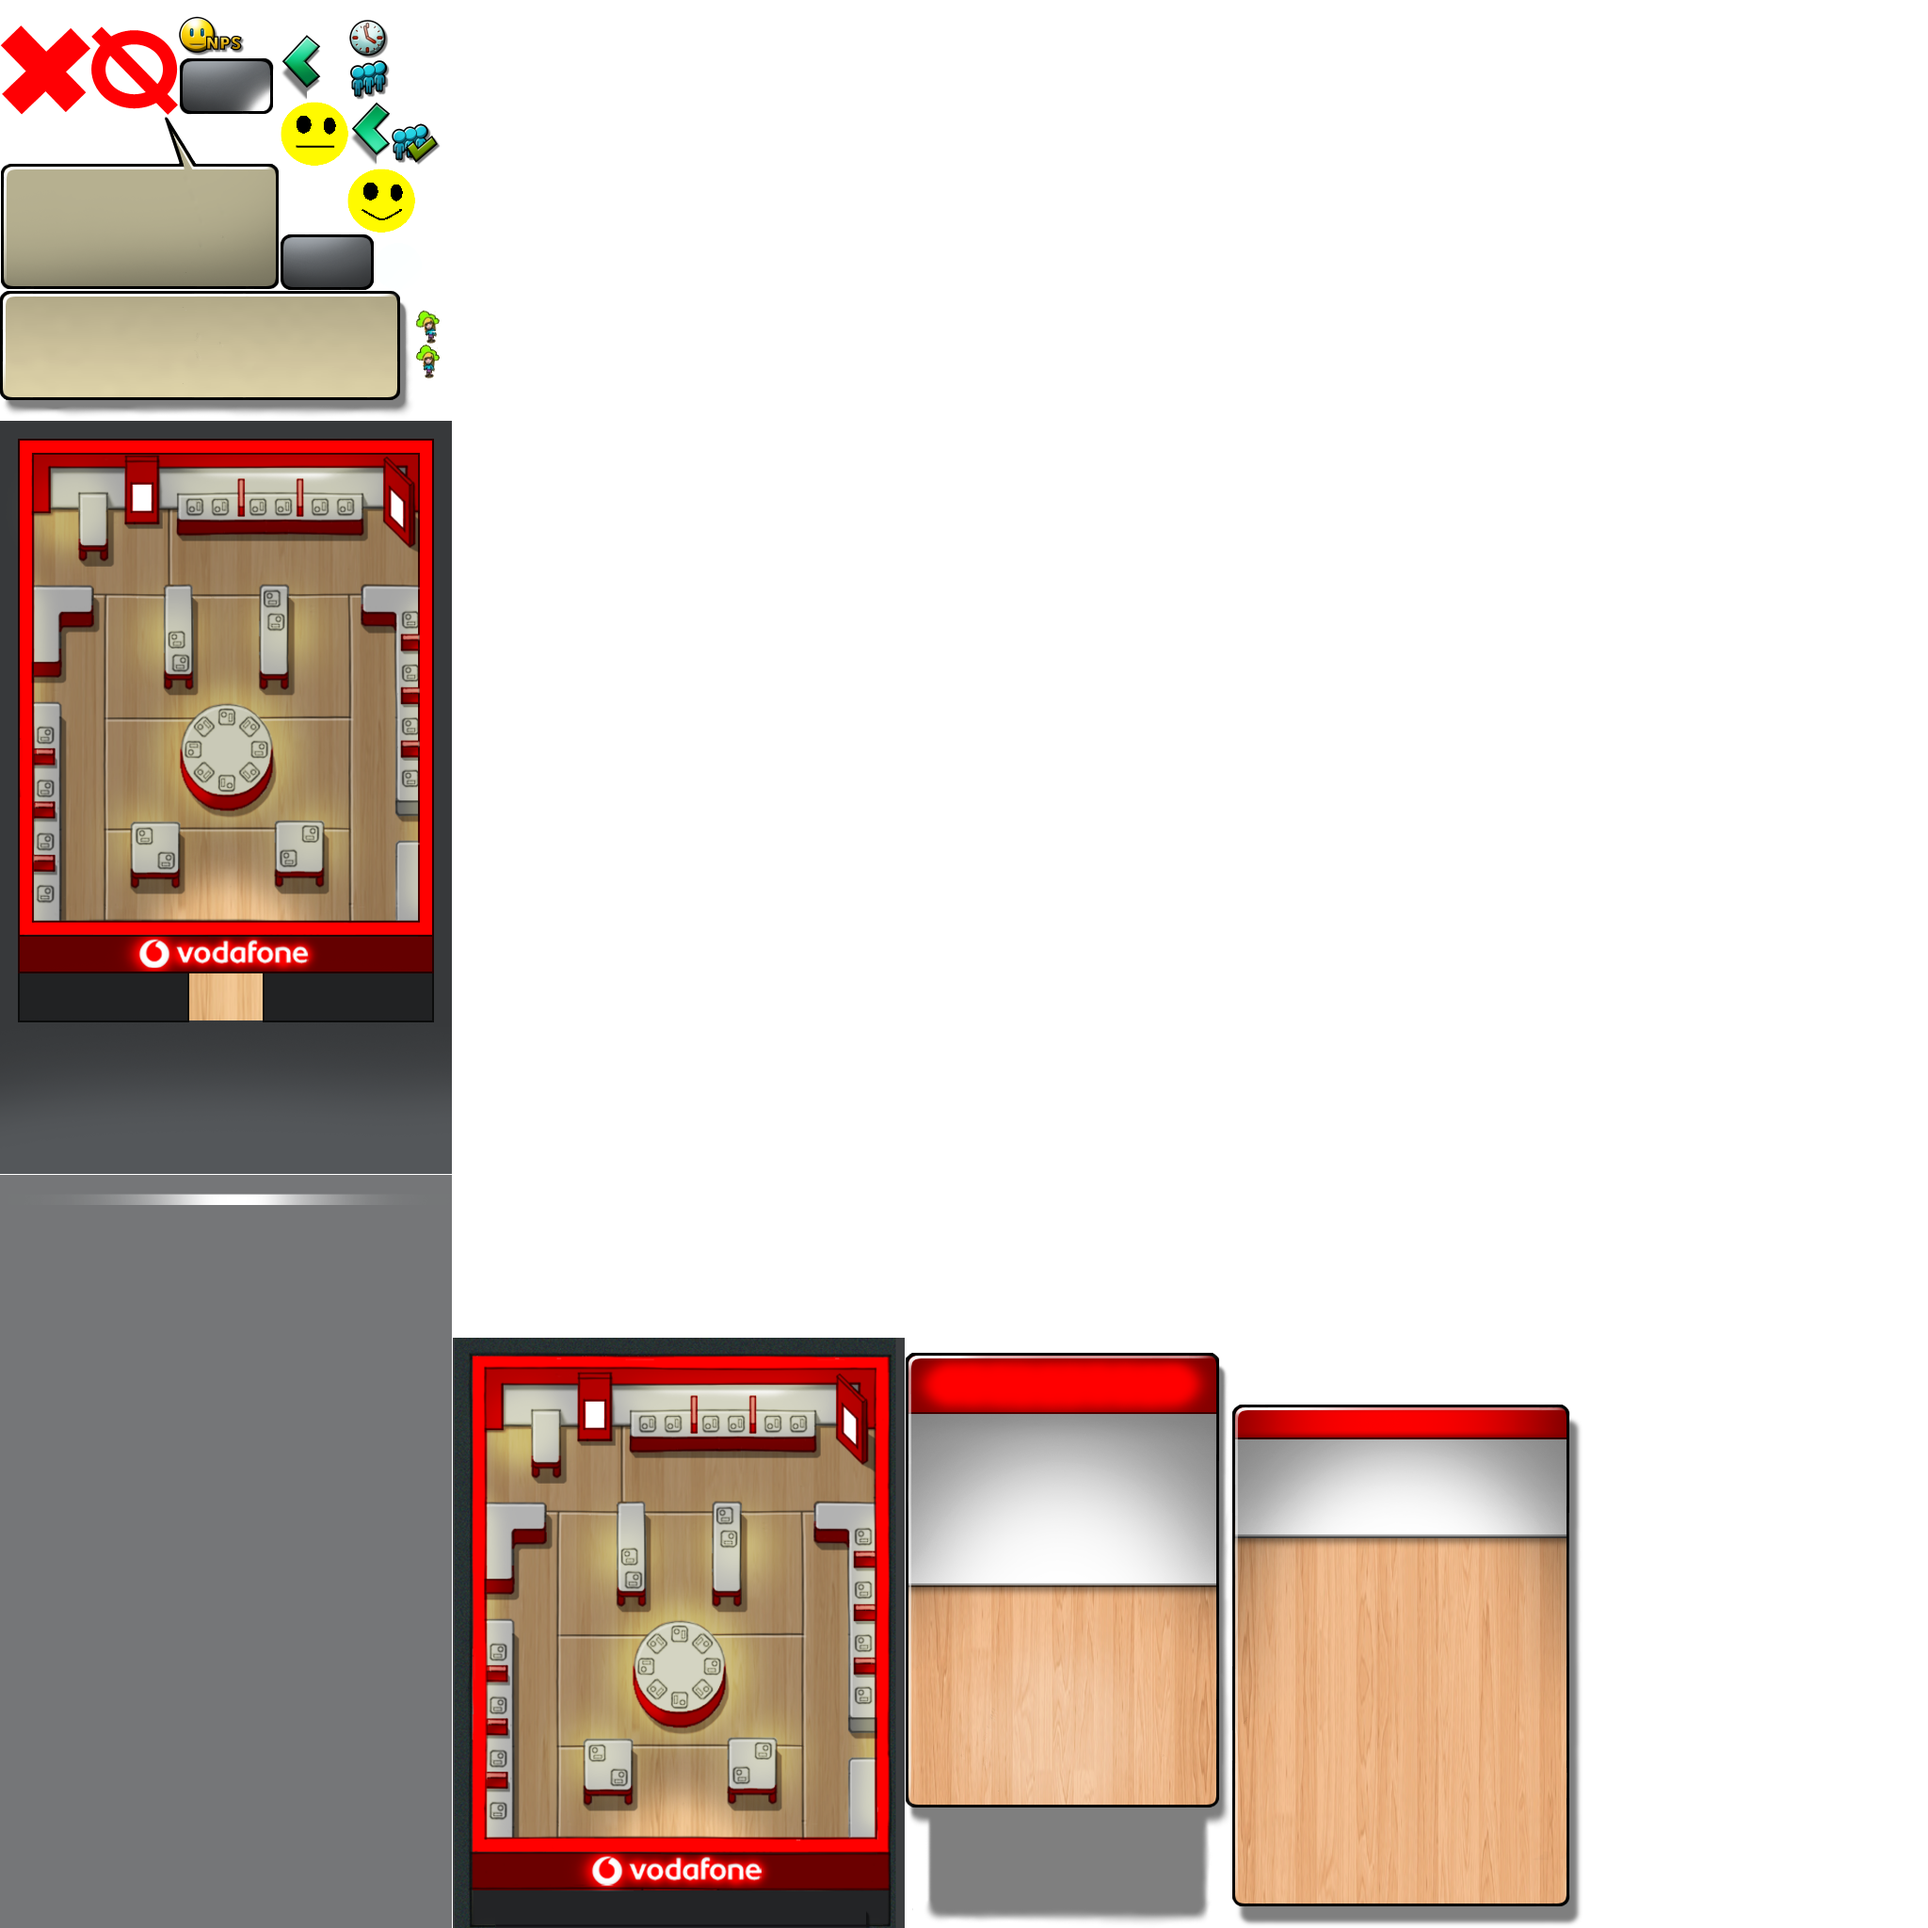
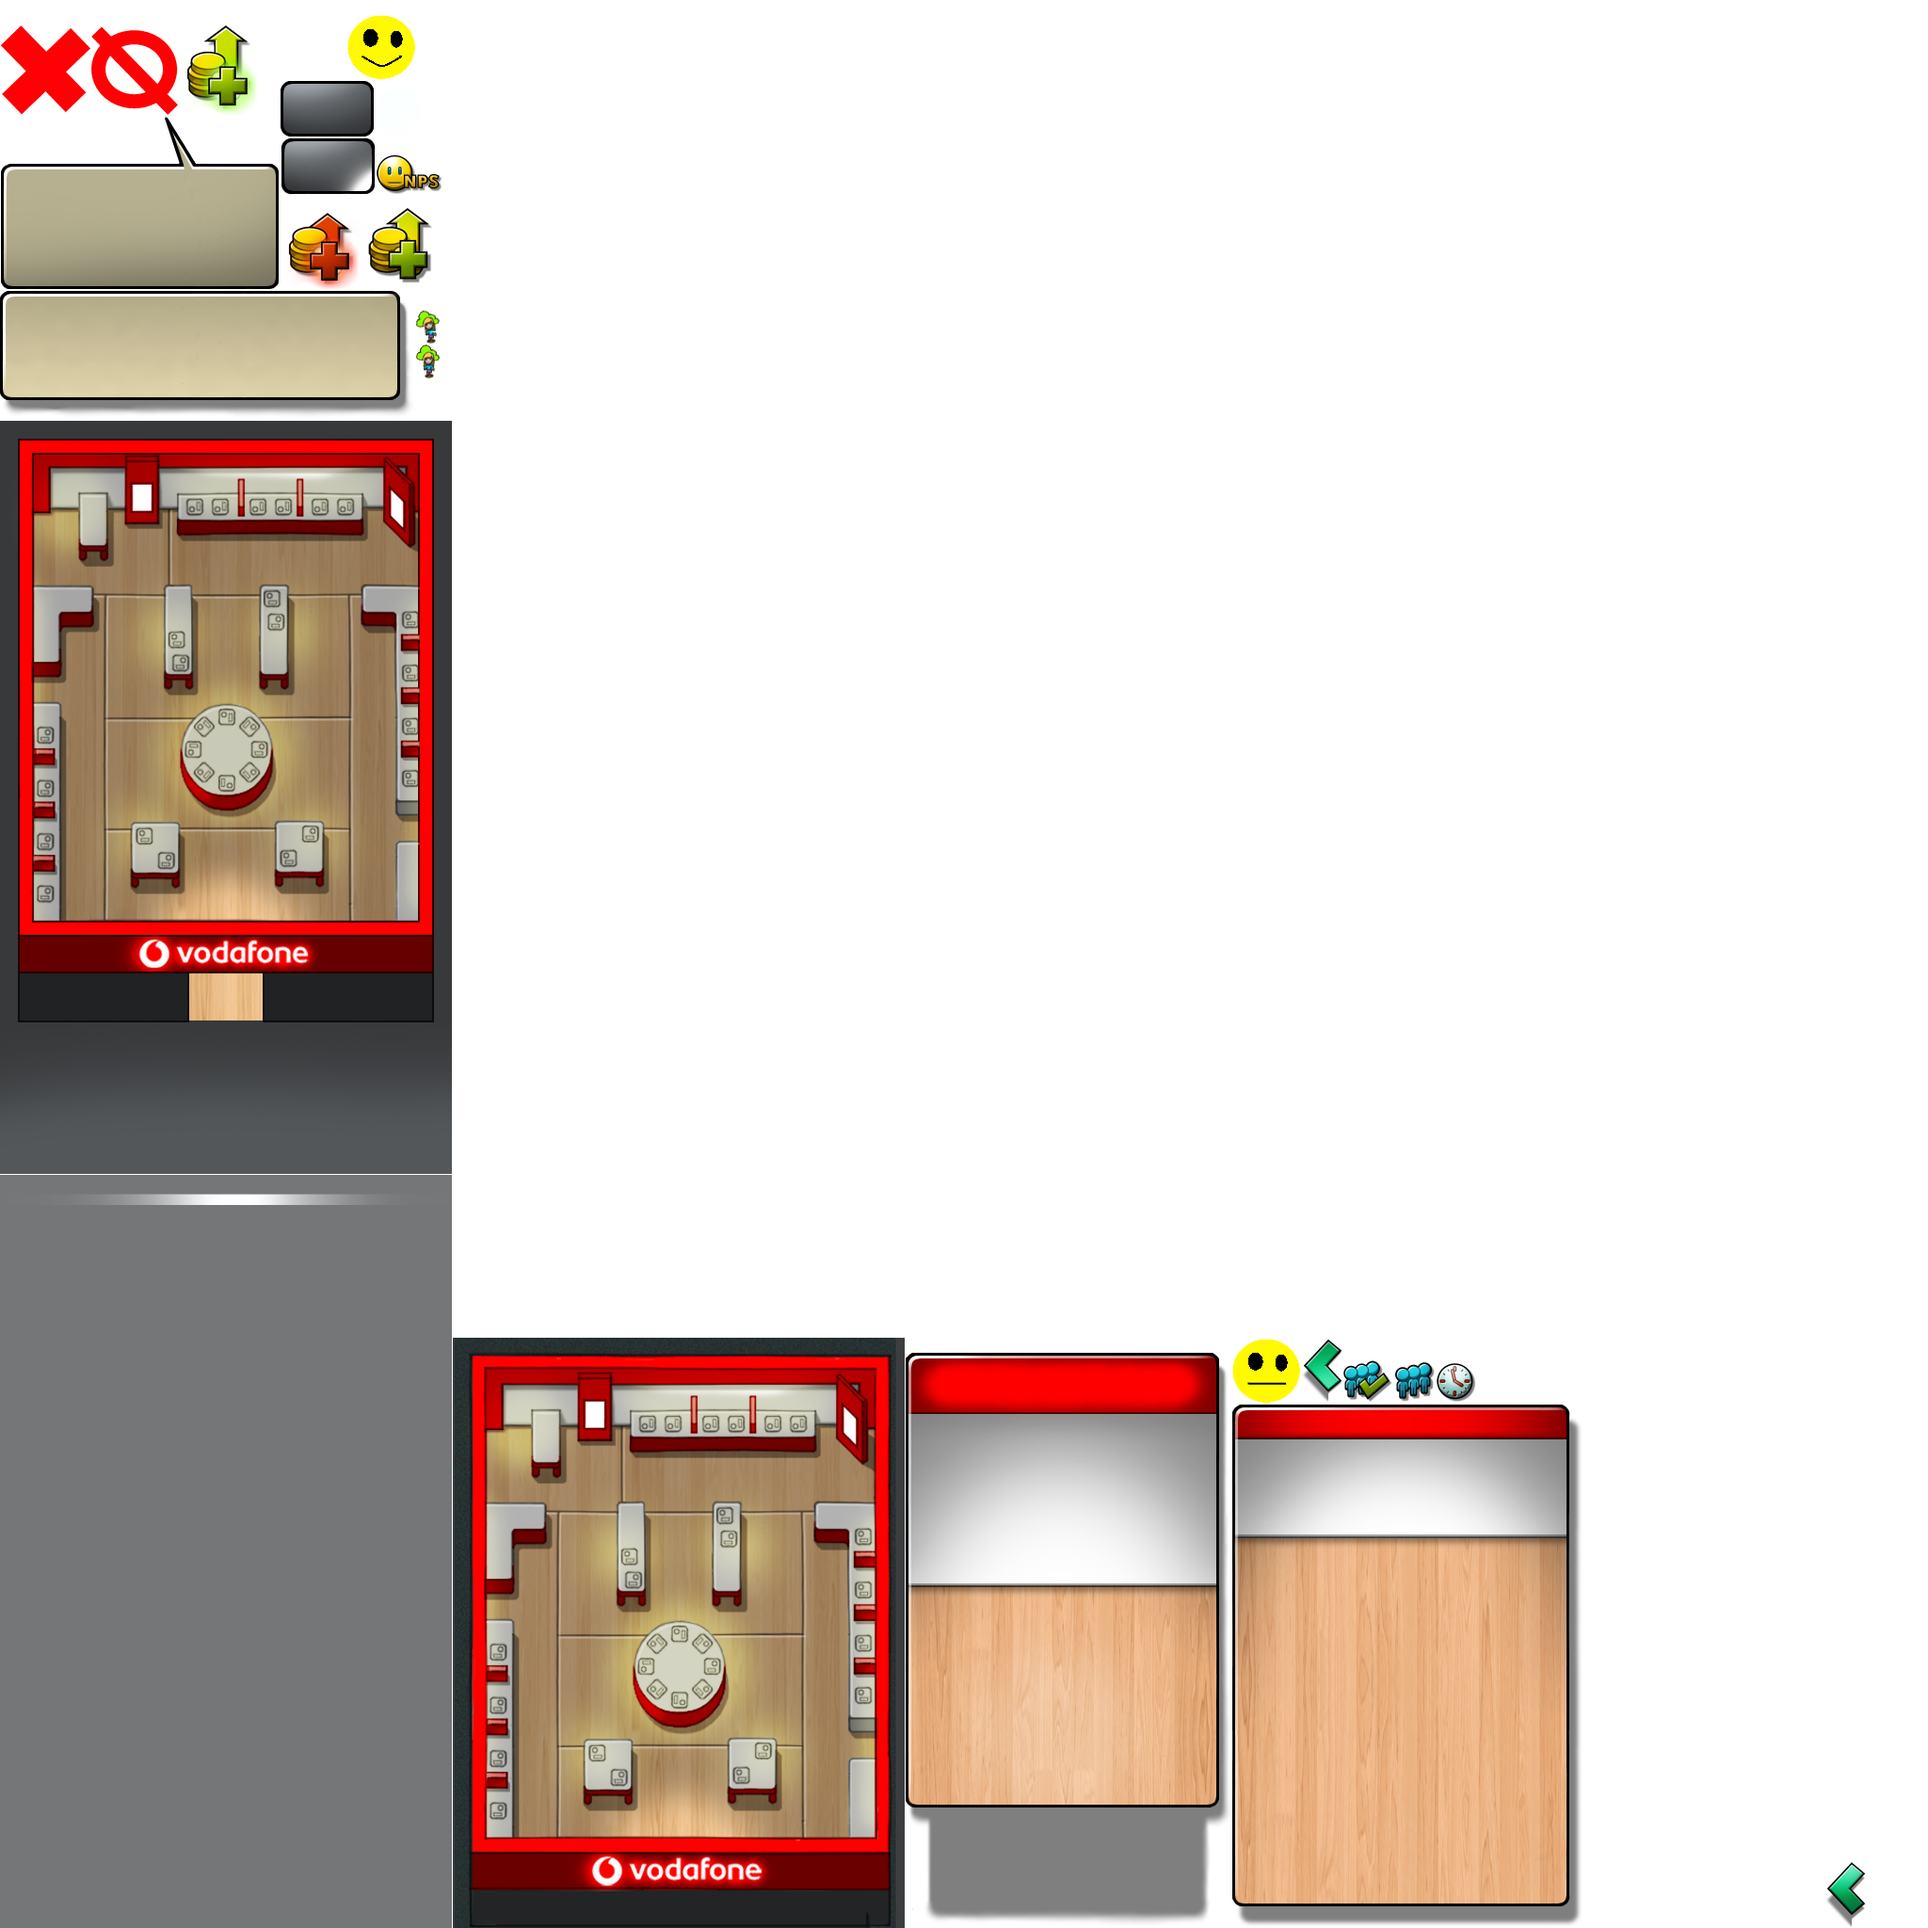
upsell button in customer view, and upsellable vars in customer

Changed region(s): [[0.0938, 0.0, 0.25, 0.1562], [0.625, 0.6875, 0.7812, 0.75], [0.9375, 0.9688, 0.9688, 1.0]]

diff --git a/Assets/scripts/UpsellButton.cs b/Assets/scripts/UpsellButton.cs
@@ -1,0 +1,45 @@
+using UnityEngine;
+using System.Collections;
+
+public class UpsellButton : MonoBehaviour {
+
+    public bool attemptingUpsell = false;
+    public UIButton button;
+    public string normalSprite;
+    public string pressedSprite;
+
+
+    public void setUpselling(bool tryingToUpsell)
+    {
+        attemptingUpsell = tryingToUpsell;
+        if (tryingToUpsell == true)
+        {
+            button.normalSprite = pressedSprite;
+        }
+        else
+        {
+            button.normalSprite = normalSprite;
+        }
+    }
+
+    public void OnClick()
+    {
+        setUpselling(!attemptingUpsell);
+        transform.parent.GetComponent<CustomerPanelManager>().currentCustomer.attemptingUpsell = attemptingUpsell;
+        
+    }
+
+
+
+	// Use this for initialization
+    void Start()
+    {
+        button = GetComponent<UIButton>();
+        normalSprite = button.normalSprite;
+        pressedSprite = button.pressedSprite;
+    }
+	// Update is called once per frame
+	void Update () {
+	
+	}
+}

diff --git a/Assets/scripts/Customer.cs b/Assets/scripts/Customer.cs
@@ -9,7 +9,8 @@ using System.Collections;
 	public string scenario;
 	public float nps = 1f;
 	public string avatarName = "customer";
-	public bool upsell;
+	public bool upsellable;
+    public bool attemptingUpsell = false;
     public float currentTimeAvailable = 60f; // 1f == 1 second
     public float initialTimeAvailable = 60f; // 1f == 1 second
 	public string bestZone;
@@ -46,7 +47,7 @@ using System.Collections;
 
 		this.bestZone = bestZone;
 		this.secondBestZone = secondBestZone;
-		this.upsell = upSellVal;
+		this.upsellable = upSellVal;
 		this.spend = spend;
 
         //scenario = "Hello, I'm looking for some more mobile prowess in my current pocket monster. Please could you point me towards the beefiest specimen in your shop, so I can play all the 3D games like a breeze? Thank you person!";
